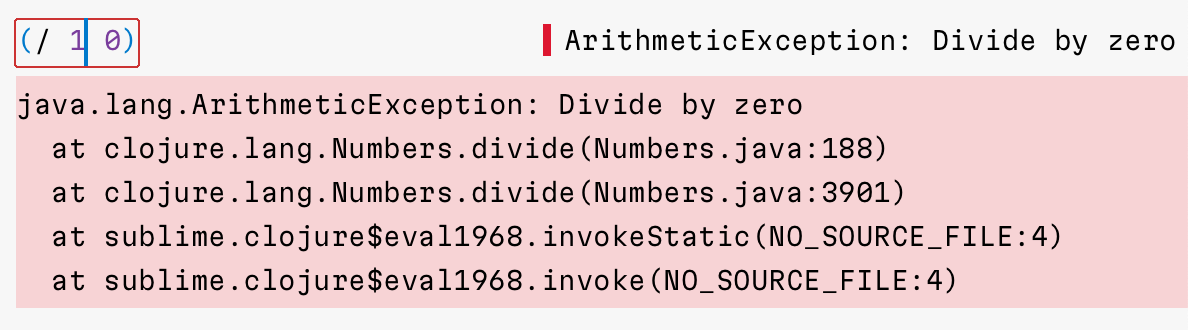
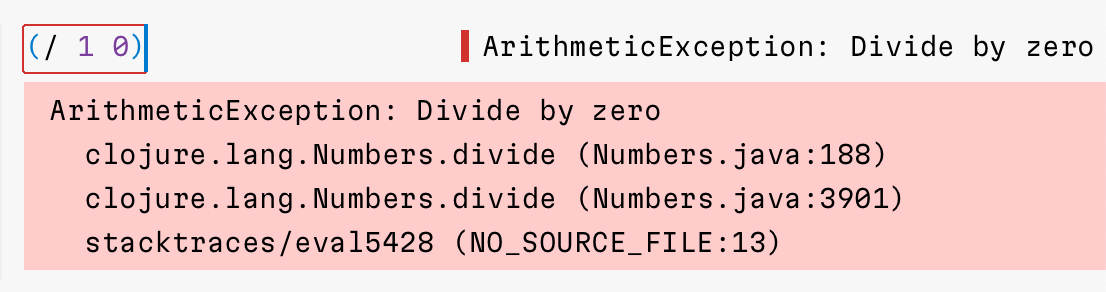
Better formatter for exceptions

Changed region(s): [[0.0, 0.0308, 1.0, 0.9555]]

diff --git a/README.md b/README.md
@@ -122,7 +122,11 @@ If your evaluation runs too long and you want to interrupt it, run `Clojure REPL
 
 If your evaluation failed, put your cursor inside failed region and run `Clojure REPL: Toggle Stacktrace`:
 
-<img src="https://raw.github.com/tonsky/sublime-clojure/master/screenshots/toggle_stacktrace.png" width="594" height="165" alt="Toggle Stacktrace">
+<img src="https://raw.github.com/tonsky/sublime-clojure/master/screenshots/toggle_stacktrace.png" width="553" height="146" alt="Toggle Stacktrace">
+
+Sublime Clojure will display stacktraces in a Clojure-friendly way. Compare with the default REPL:
+
+<img src="https://raw.github.com/tonsky/sublime-clojure/master/screenshots/stacktraces.png" width="806" height="390" alt="Stacktraces">
 
 To show symbol info, run `Clojure REPL: Toggle Symbol Info`:
 
@@ -140,10 +144,10 @@ To edit settings, run `Preferences: Sublime Clojure Settings` command.
 Command                       | macOS                            | Windows/Linux                                   | Mnemonic
 ------------------------------|----------------------------------|-------------------------------------------------| -----------------------
 Evaluate                      | <kbd>Ctrl</kbd> <kbd>Enter</kbd> | <kbd>Ctrl</kbd> <kbd>Alt</kbd> <kbd>Enter</kbd> |
-Evaluate Buffer               | <kbd>Ctrl</kbd> <kbd>B</kbd>     | <kbd>Ctrl</kbd> <kbd>Alt</kbd> <kbd>B</kbd>     | <kbd>B</kbd>uffer
-Interrupt Pending Evaluations | <kbd>Ctrl</kbd> <kbd>C</kbd>     | <kbd>Ctrl</kbd> <kbd>Alt</kbd> <kbd>C</kbd>     | <kbd>C</kbd>ancel
-Toggle Info                   | <kbd>Ctrl</kbd> <kbd>I</kbd>     | <kbd>Ctrl</kbd> <kbd>Alt</kbd> <kbd>I</kbd>     | <kbd>I</kbd>nfo
-Clear Evaluation Results      | <kbd>Ctrl</kbd> <kbd>L</kbd>     | <kbd>Ctrl</kbd> <kbd>Alt</kbd> <kbd>L</kbd>     | C<kbd>l</kbd>ear
+Evaluate Buffer               | <kbd>Ctrl</kbd> <kbd>B</kbd>     | <kbd>Ctrl</kbd> <kbd>Alt</kbd> <kbd>B</kbd>     | [B]uffer
+Interrupt Pending Evaluations | <kbd>Ctrl</kbd> <kbd>C</kbd>     | <kbd>Ctrl</kbd> <kbd>Alt</kbd> <kbd>C</kbd>     | [C]ancel
+Toggle Info                   | <kbd>Ctrl</kbd> <kbd>I</kbd>     | <kbd>Ctrl</kbd> <kbd>Alt</kbd> <kbd>I</kbd>     | [I]nfo
+Clear Evaluation Results      | <kbd>Ctrl</kbd> <kbd>L</kbd>     | <kbd>Ctrl</kbd> <kbd>Alt</kbd> <kbd>L</kbd>     | c[L]ear
 
 To change key bindings, run `Preferences: Sublime Clojure Key Bindings` command.
 
